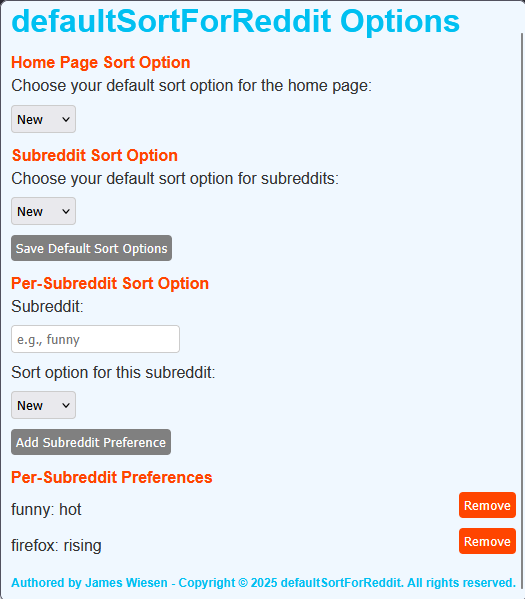
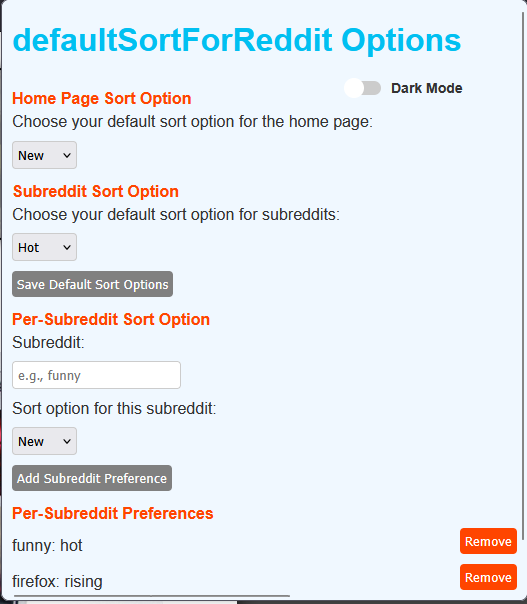
- Added some exclusions for pages to never sort. - Set list to sort alphabetically for ease of use.

Changed region(s): [[0.0, 0.0, 1.0, 1.0]]

diff --git a/popup.js b/popup.js
@@ -5,7 +5,10 @@
 function saveOptions() {
   const sortOption = document.getElementById("sortOption").value;
   const sortOptionSubreddit = document.getElementById("sortOptionSubreddit").value;
-  const subredditSortOptions = JSON.parse(localStorage.getItem("subredditSortOptions")) || {};
+  const subredditSortOptions = Object.keys(JSON.parse(localStorage.getItem("subredditSortOptions")) || {}).sort().reduce((acc, key) => {
+      acc[key] = JSON.parse(localStorage.getItem("subredditSortOptions"))[key];
+      return acc;
+  }, {});
   const darkMode = document.getElementById("darkModeToggle").checked;
 
   browser.storage.local.set({
@@ -35,7 +38,11 @@ function restoreOptions() {
       document.getElementById("sortOption").value = sortOption;
       document.getElementById("sortOptionSubreddit").value = sortOptionSubreddit;
       
-      localStorage.setItem("subredditSortOptions", JSON.stringify(subredditSortOptions));
+      const sortedSubredditSortOptions = Object.keys(subredditSortOptions).sort().reduce((acc, key) => {
+          acc[key] = subredditSortOptions[key];
+          return acc;
+      }, {});
+      localStorage.setItem("subredditSortOptions", JSON.stringify(sortedSubredditSortOptions));
       updateSubredditPreferencesList(subredditSortOptions);
 
       document.getElementById("darkModeToggle").checked = darkMode;
@@ -111,7 +118,9 @@ function updateSubredditPreferencesList(subredditSortOptions) {
   const listContainer = document.getElementById("subredditPreferencesList");
   listContainer.innerHTML = "";
 
-  Object.keys(subredditSortOptions).forEach(subredditName => {
+  const sortedSubredditNames = Object.keys(subredditSortOptions).sort();
+
+  sortedSubredditNames.forEach(subredditName => {
       const listItem = document.createElement("div");
       listItem.className = "subreddit-preference";
       

diff --git a/background.js b/background.js
@@ -7,11 +7,22 @@ function redirect(requestDetails) {
   console.log('Redirect function called');
   console.log('Request URL:', requestDetails.url);
 
+  // Do not redirect message URLs
+  if (requestDetails.url.startsWith("https://www.reddit.com/message")) {
+    console.log('No redirect for message URLs.');
+    return {};
+  }
+
   return browser.storage.local.get(["sortOption", "sortOptionSubreddit", "subredditSortOptions"])
     .then(result => {
       const sortOption = result.sortOption || "new"; // Home page sort option
       const sortOptionSubreddit = result.sortOptionSubreddit || "new"; // Global subreddit sort option
-      const subredditSortOptions = result.subredditSortOptions || {}; // Specific subreddit sort options
+      let subredditSortOptions = result.subredditSortOptions || {}; // Specific subreddit sort options
+
+      // Sort subredditSortOptions by subreddit name (key)
+      subredditSortOptions = Object.fromEntries(
+        Object.entries(subredditSortOptions).sort(([a], [b]) => a.localeCompare(b))
+      );
 
       const homeUrls = [
         "https://www.reddit.com/",

diff --git a/popup.html b/popup.html
@@ -165,7 +165,7 @@
     <h2>Per-Subreddit Preferences</h2>
     <div id="subredditPreferencesList"></div>
     
-    <h3>Authored by James Wiesen - Copyright © 2025 defaultSortForReddit. All rights reserved.</h3>
+    <h3>Copyright © 2025 defaultSortForReddit. All rights reserved.</h3>
 
     <script src="popup.js"></script>
 </body>

diff --git a/README.md b/README.md
@@ -13,6 +13,11 @@ Main Screen:
 
 ![Alt text](images/MainScreen.png?raw=true "MainScreen")
 
+Main Screen (Dark Mode): 
+
+![Alt text](images/MainScreenDarkMode.png?raw=true "MainScreenDarkMode")
+
+
 Minimal Permissions Required:
 
 ![Alt text](images/Permissions.png?raw=true "Permissions")
